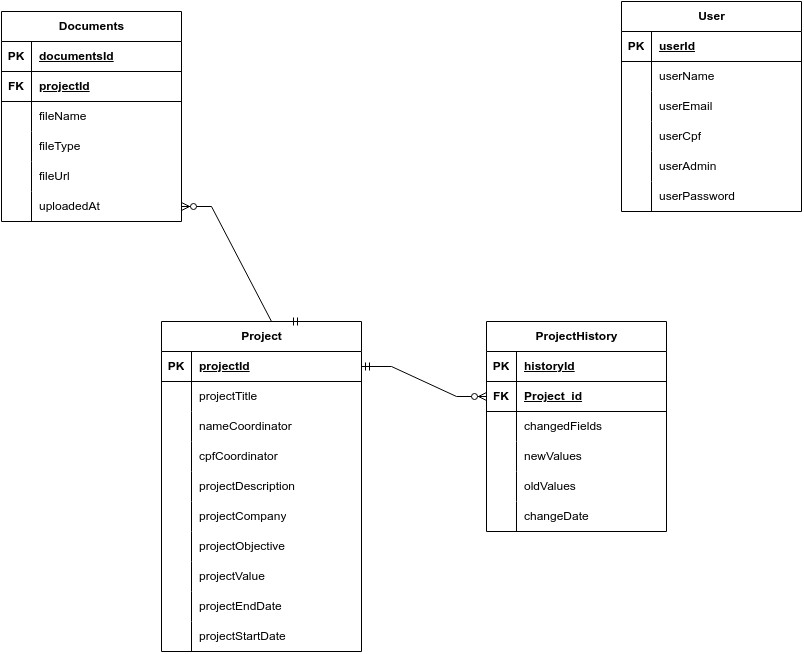
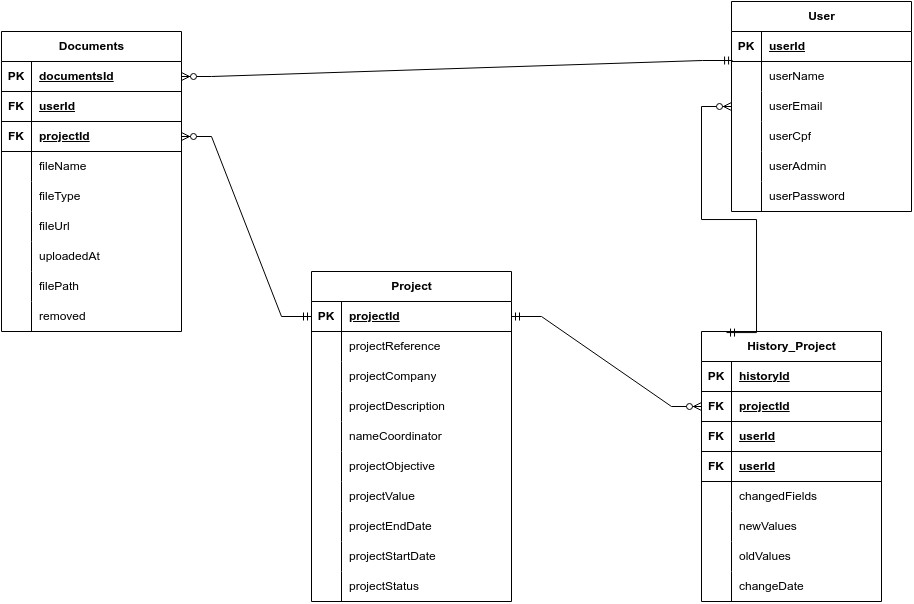
docs: atualizado backlog e dor da sprint 2

diff --git a/documentacao/sprints/sprint02/sprint02.md b/documentacao/sprints/sprint02/sprint02.md
@@ -1,60 +1,81 @@
 <h1 style="text-align: center;">📌DoR (Definition of Ready): Sprint 02</h1>
 
- <table>
-        <thead>
-            <tr>
-                <th>User Story</th>
-                <th>Critério de Aceitação</th>
-                <th>Tarefa Front</th>
-                <th>Tarefa Back</th>
-                <th>Tarefa BD</th>
-            </tr>
-        </thead>
-        <tbody>
-            <tr>
-                <td>Como usuário, eu quero pesquisar projetos por coordenador, para encontrar informações específicas.</td>
-                <td>O usuário deve ter a capacidade de buscar projetos filtrando pelo nome do coordenador. O sistema deve fornecer uma interface de busca ou filtros onde o usuário possa selecionar um coordenador específico.</td>
-                <td>Implementar filtros para seleção de coordenador.</td>
-                <td>Criar endpoint para busca de projetos filtrados por coordenador.</td>
-                <td>Otimizar consulta para buscar projetos baseados no coordenador.</td>
-            </tr>
-            <tr>
-                <td>Como usuário, eu quero pesquisar projetos por empresa, para encontrar informações específicas.</td>
-                <td>O usuário deve ter a capacidade de buscar projetos filtrando pelo nome da empresa. O sistema deve fornecer uma interface de busca ou filtros onde o usuário possa selecionar uma empresa específica.</td>
-                <td>Implementar filtros para seleção de empresa.</td>
-                <td>Criar endpoint para busca de projetos filtrados por empresa.</td>
-                <td>Otimizar consulta para buscar projetos baseados na empresa.</td>
-            </tr>
-            <tr>
-                <td>Como usuário, eu quero pesquisar projetos por status (em andamento, encerrados e não iniciados), para acompanhar o progresso dos projetos.</td>
-                <td>O usuário deve ter a opção de pesquisar projetos com base em seu status (em andamento, encerrados ou não iniciados).</td>
-                <td>Adicionar filtros de status (dropdown).</td>
-                <td>Implementar endpoint para consulta por status (em andamento, encerrado, não iniciado).</td>
-                <td>Otimizar consulta para buscar projetos baseados no status dos projetos.</td>
-            </tr>
-            <tr>
-                <td>Como usuário, eu quero pesquisar projetos por classificação, para acompanhar o progresso dos projetos.</td>
-                <td>O usuário deve ser capaz de classificar os projetos de acordo com categorias estabelecidas, como AS, OF, PC, e/ou outros, contrato, convênio, patrocínio, termo de cooperação e termo de outorga.</td>
-                <td>Adicionar filtros de classificação dos projetos (AS, OF, PC, contrato, convênio, patrocínio, etc).</td>
-                <td>Implementar endpoint para pesquisa de projetos por classificação.</td>
-                <td>Otimizar consulta para buscar projetos baseados pela classificação dos projetos.</td>
-            </tr>
-            <tr>
-                <td>Como usuário, eu quero pesquisar projetos por data de início ou término, para encontrar informações específicas.</td>
-                <td>O usuário deve ter a opção de buscar projetos por data de início ou término. O sistema deve disponibilizar um calendário ou campo para inserção de datas, permitindo que o usuário defina um intervalo específico para sua pesquisa.</td>
-                <td>Criar campo de seleção de intervalo de datas (calendário).</td>
-                <td>Desenvolver endpoint que filtre projetos com base na data de início ou término.</td>
-                <td>Otimizar consulta para buscar projetos baseados pela data de início ou término dos projetos.</td>
-            </tr>
-            <tr>
-                <td>Como usuário, eu quero utilizar uma barra de pesquisa para buscar conteúdos no site com base em palavras-chave, para encontrar informações de maneira rápida e eficiente.</td>
-                <td>O sistema deve permitir que o usuário insira uma palavra-chave na barra de pesquisa e, ao clicar em buscar, o conteúdo relevante seja exibido. O sistema deve retornar todos os resultados que contenham a palavra-chave, seja no título, descrição ou corpo do conteúdo.</td>
-                <td>Implementar o campo de input para inserção de palavras-chave e um botão de busca.</td>
-                <td>Implementar a lógica de busca que verifica a presença da palavra-chave nos campos de título, descrição ou corpo do conteúdo.</td>
-                <td>Desenvolver a consulta que faça a busca por palavra-chave em múltiplos campos (título, descrição e corpo).</td>
-            </tr>
-        </tbody>
-    </table>
+ <h1 style="text-align: center;">📌DoR (Definition of Ready): Sprint 02</h1>
+
+<table>
+    <thead>
+        <tr>
+            <th>User Story</th>
+            <th>Critério de Aceitação</th>
+            <th>Tarefa Front</th>
+            <th>Tarefa Back</th>
+            <th>Tarefa BD</th>
+        </tr>
+    </thead>
+    <tbody>
+        <tr>
+            <td>Como usuário, eu quero pesquisar projetos por coordenador, para encontrar informações específicas.</td>
+            <td>O usuário deve ter a capacidade de buscar projetos filtrando pelo nome do coordenador. O sistema deve fornecer uma interface de busca ou filtros onde o usuário possa selecionar um coordenador específico.</td>
+            <td>Implementar filtros para seleção de coordenador.</td>
+            <td>Criar endpoint para busca de projetos filtrados por coordenador.</td>
+            <td>Otimizar consulta para buscar projetos baseados no coordenador.</td>
+        </tr>
+        <tr>
+            <td>Como usuário, eu quero pesquisar projetos por empresa, para encontrar informações específicas.</td>
+            <td>O usuário deve ter a capacidade de buscar projetos filtrando pelo nome da empresa. O sistema deve fornecer uma interface de busca ou filtros onde o usuário possa selecionar uma empresa específica.</td>
+            <td>Implementar filtros para seleção de empresa.</td>
+            <td>Criar endpoint para busca de projetos filtrados por empresa.</td>
+            <td>Otimizar consulta para buscar projetos baseados na empresa.</td>
+        </tr>
+        <tr>
+            <td>Como usuário, eu quero pesquisar projetos por status (em andamento, encerrados e não iniciados), para acompanhar o progresso dos projetos.</td>
+            <td>O usuário deve ter a opção de pesquisar projetos com base em seu status (em andamento, encerrados ou não iniciados).</td>
+            <td>Adicionar filtros de status (dropdown).</td>
+            <td>Implementar endpoint para consulta por status (em andamento, encerrado, não iniciado).</td>
+            <td>Otimizar consulta para buscar projetos baseados no status dos projetos.</td>
+        </tr>
+        <tr>
+            <td>Como usuário, eu quero pesquisar projetos por classificação, para acompanhar o progresso dos projetos.</td>
+            <td>O usuário deve ser capaz de classificar os projetos de acordo com categorias estabelecidas, como AS, OF, PC, e/ou outros, contrato, convênio, patrocínio, termo de cooperação e termo de outorga.</td>
+            <td>Adicionar filtros de classificação dos projetos (AS, OF, PC, contrato, convênio, patrocínio, etc).</td>
+            <td>Implementar endpoint para pesquisa de projetos por classificação.</td>
+            <td>Otimizar consulta para buscar projetos baseados pela classificação dos projetos.</td>
+        </tr>
+        <tr>
+            <td>Como usuário, eu quero pesquisar projetos por data de início ou término, para encontrar informações específicas.</td>
+            <td>O usuário deve ter a opção de buscar projetos por data de início ou término. O sistema deve disponibilizar um calendário ou campo para inserção de datas, permitindo que o usuário defina um intervalo específico para sua pesquisa.</td>
+            <td>Criar campo de seleção de intervalo de datas (calendário).</td>
+            <td>Desenvolver endpoint que filtre projetos com base na data de início ou término.</td>
+            <td>Otimizar consulta para buscar projetos baseados pela data de início ou término dos projetos.</td>
+        </tr>
+        <tr>
+            <td>Como usuário, eu quero utilizar uma barra de pesquisa para buscar conteúdos no site com base em palavras-chave, para encontrar informações de maneira rápida e eficiente.</td>
+            <td>O sistema deve permitir que o usuário insira uma palavra-chave na barra de pesquisa e, ao clicar em buscar, o conteúdo relevante seja exibido. O sistema deve retornar todos os resultados que contenham a palavra-chave, seja no título, descrição ou corpo do conteúdo.</td>
+            <td>Implementar o campo de input para inserção de palavras-chave e um botão de busca.</td>
+            <td>Implementar a lógica de busca que verifica a presença da palavra-chave nos campos de título, descrição ou corpo do conteúdo.</td>
+            <td>Desenvolver a consulta que faça a busca por palavra-chave em múltiplos campos (título, descrição e corpo).</td>
+        </tr>
+        <tr>
+            <td>Como administrador, eu quero editar projetos existentes, para manter as informações atualizadas.</td>
+            <td>O administrador deve ter acesso a uma funcionalidade de edição para modificar detalhes de projetos já cadastrados.</td>
+            <td>Criar interface de edição de projetos com campos para alteração de dados.</td>
+            <td>Implementar a lógica para validar e salvar as edições feitas pelo administrador no banco de dados.</td>
+            <td>Atualizar os registros existentes no banco de dados com as novas informações do projeto editado.</td>
+        </tr>
+        <tr>
+            <td>Como administrador, eu quero excluir projetos obsoletos ou incorretos, para manter os dados atualizados.</td>
+            <td>O administrador deve ser capaz de excluir projetos que estejam incorretos ou obsoletos. Antes da exclusão, o sistema deve exibir uma confirmação para evitar remoções acidentais.</td>
+            <td>Criar botão de exclusão com modal de confirmação para o administrador confirmar a remoção.</td>
+            <td>Implementar a lógica para exclusão de projetos, garantindo a validação da ação através da confirmação do administrador.</td>
+            <td>Remover o projeto selecionado do banco de dados.</td>
+        </tr>
+    </tbody>
+</table>
+
+
+<h2>Modelo de Dados</h2>
+<img src="https://github.com/Sync-FATEC/API-2024.2-3SEM/blob/main/documentacao/sprints/sprint02/banco-de-dados.jpg">
+
 
 <h2>Modelo de Dados</h2>
 <img src="https://github.com/Sync-FATEC/API-2024.2-3SEM/blob/main/documentacao/sprints/sprint02/banco-de-dados.jpg">

diff --git a/README.md b/README.md
@@ -47,24 +47,164 @@ Painel Intuitivo: Desenvolveremos um painel de controle simples e intuitivo, com
 
 <h2 id='product-backlog'> 📖 Product Backlog </h2>
 
-| Rank | Prioridade  | User Story                                              | Estimativa | Sprint    | Req. Parceiro |
-|----|-------|-----------------------------------------------------------------|------------|-----------|---------------|
-| 01 | Alta  | Como administrador, eu quero acessar um portal exclusivo da área do administrador, para gerenciar projetos e visualizar relatórios detalhados, garantindo a manutenção e a segurança dos dados do sistema.        | 8 | 1 | 4 |
-| 02 | Alta  | Como administrador, eu quero cadastrar projetos, para que eles estejam disponíveis no Portal de Transparência.      | 8 | 1 | 2 |
-| 03 | Alta  | Como administrador, eu quero importar dados da aplicação legada, para garantir que os projetos antigos estejam acessíveis no novo portal. | 13 | 1 | 4 |
-| 04 | Alta  | Como usuário, eu quero visualizar os projetos no Portal de Transparência.      | 5 | 1 | 3 |
-| 05 | Alta | Como usuário, eu quero visualizar os detalhes completos de um projeto ao selecioná-lo na pesquisa, para entender todos os aspectos do projeto.       | 5 | 1 | 3 |
-| 06 | Media | Como usuário, eu quero pesquisar projetos por coordenador, para encontrar informações específicas.       | 5  | 2 | 3 |
-| 07 | Media | Como usuário, eu quero pesquisar projetos por empresa, para encontrar informações específicas.       | 5 | 2 | 3 |
-| 08 | Media | Como usuário, eu quero pesquisar projetos por status (em andamento, encerrados e não iniciados), para acompanhar o progresso dos projetos.       | 5 | 2 | 3 |
-| 09 | Media | Como usuário, eu quero pesquisar projetos por classificação, para acompanhar o progresso dos projetos.       | 5 | 2 | 3 |
-| 10 | Media | Como usuário, eu quero pesquisar projetos por data de início ou término, para encontrar informações específicas.       | 5 | 2 | 3 |
-| 11 | Media | Como usuário, eu quero utilizar uma barra de pesquisa para buscar conteúdos no site com base em palavras-chave, para encontrar informações de maneira rápida e eficiente.  | 5 | 2 | 3 |
-| 12 | Media | Como administrador, eu quero editar projetos existentes, para manter as informações atualizadas.       | 3 | 3 | 2 |
-| 13 | Media | Como administrador, eu quero excluir projetos obsoletos ou incorretos, para manter os dados atualizados.       | 3 | 3 | 2 |
-| 14 | Media | Como administrador, eu quero visualizar dashboards dos projetos, para obter uma visão geral e rápida do estado dos projetos.       | 8 | 3 | 5 |
-| 15 | Baixa | Como administrador, eu quero exportar os dados do dashboards dos projetos, para obter uma visão geral e rápida do estado dos projetos.       | 8 | 4 | 5 |
-| 16 | Baixa | Como administrador, eu quero exportar dados de um projeto selecionado,  para obter uma visão geral e rápida do estado do projeto.       | 8 | 4 | 5 |
+<table>
+    <thead>
+        <tr align="center">
+            <th>Rank</th>
+            <th>Prioridade</th>
+            <th>User Story</th>
+            <th>Estimativa</th>
+            <th>Sprint</th>
+            <th>Req. Parceiro</th>
+        </tr>
+    </thead>
+    <tbody>
+        <tr align="center">
+            <td>1</td>
+            <td>ALTA</td>
+            <td>Como administrador, eu quero acessar um portal exclusivo da área do administrador, para gerenciar projetos e visualizar relatórios detalhados, garantindo a manutenção e a segurança dos dados do sistema.</td>
+            <td>8</td>
+            <td>1</td>
+            <td>4</td>
+        </tr>
+        <tr align="center">
+            <td>2</td>
+            <td>ALTA</td>
+            <td>Como administrador, eu quero cadastrar projetos, para que eles estejam disponíveis no Portal de Transparência.</td>
+            <td>8</td>
+            <td>1</td>
+            <td>2</td>
+        </tr>
+        <tr align="center">
+            <td>3</td>
+            <td>ALTA</td>
+            <td>Como administrador, eu quero importar dados da aplicação legada, para garantir que os projetos antigos estejam acessíveis no novo portal.</td>
+            <td>13</td>
+            <td>1</td>
+            <td>4</td>
+        </tr>
+        <tr align="center">
+            <td>4</td>
+            <td>ALTA</td>
+            <td>Como usuário, eu quero visualizar os projetos no Portal de Transparência.</td>
+            <td>5</td>
+            <td>1</td>
+            <td>3</td>
+        </tr>
+        <tr align="center">
+            <td>5</td>
+            <td>ALTA</td>
+            <td>Como usuário, eu quero visualizar os detalhes completos de um projeto ao selecioná-lo na pesquisa, para entender todos os aspectos do projeto.</td>
+            <td>5</td>
+            <td>1</td>
+            <td>3</td>
+        </tr>
+        <tr align="center">
+            <td>6</td>
+            <td>MÉDIA</td>
+            <td>Como usuário, eu quero pesquisar projetos por coordenador, para encontrar informações específicas.</td>
+            <td>5</td>
+            <td>2</td>
+            <td>3</td>
+        </tr>
+        <tr align="center">
+            <td>7</td>
+            <td>MÉDIA</td>
+            <td>Como usuário, eu quero pesquisar projetos por empresa, para encontrar informações específicas.</td>
+            <td>5</td>
+            <td>2</td>
+            <td>3</td>
+        </tr>
+        <tr align="center">
+            <td>8</td>
+            <td>MÉDIA</td>
+            <td>Como usuário, eu quero pesquisar projetos por status (em andamento, encerrados e não iniciados), para acompanhar o progresso dos projetos.</td>
+            <td>5</td>
+            <td>2</td>
+            <td>3</td>
+        </tr>
+        <tr align="center">
+            <td>9</td>
+            <td>MÉDIA</td>
+            <td>Como usuário, eu quero pesquisar projetos por classificação, para acompanhar o progresso dos projetos.</td>
+            <td>5</td>
+            <td>2</td>
+            <td>3</td>
+        </tr>
+        <tr align="center">
+            <td>10</td>
+            <td>MÉDIA</td>
+            <td>Como usuário, eu quero pesquisar projetos por data de início ou término, para encontrar informações específicas.</td>
+            <td>5</td>
+            <td>2</td>
+            <td>3</td>
+        </tr>
+        <tr align="center">
+            <td>11</td>
+            <td>MÉDIA</td>
+            <td>Como usuário, eu quero utilizar uma barra de pesquisa para buscar conteúdos no site com base em palavras-chave, para encontrar informações de maneira rápida e eficiente.</td>
+            <td>5</td>
+            <td>2</td>
+            <td>3</td>
+        </tr>
+        <tr align="center">
+            <td>12</td>
+            <td>MÉDIA</td>
+            <td>Como administrador, eu quero editar projetos existentes, para manter as informações atualizadas.</td>
+            <td>3</td>
+            <td>2</td>
+            <td>2</td>
+        </tr>
+        <tr align="center">
+            <td>13</td>
+            <td>MÉDIA</td>
+            <td>Como administrador, eu quero excluir projetos obsoletos ou incorretos, para manter os dados atualizados.</td>
+            <td>3</td>
+            <td>2</td>
+            <td>2</td>
+        </tr>
+        <tr align="center">
+            <td>14</td>
+            <td>MÉDIA</td>
+            <td>Como administrador, eu quero garantir que conteúdo sensível de projetos não seja exibido para usuários comuns, para proteger informações confidenciais e garantir que apenas usuários autorizados tenham acesso.</td>
+            <td>5</td>
+            <td>3</td>
+            <td>2</td>
+        </tr>
+        <tr align="center">
+            <td>15</td>
+            <td>MÉDIA</td>
+            <td>Como administrador, eu quero visualizar dashboards dos projetos, para obter uma visão geral e rápida do estado dos projetos.</td>
+            <td>8</td>
+            <td>3</td>
+            <td>5</td>
+        </tr>
+        <tr align="center">
+            <td>16</td>
+            <td>BAIXA</td>
+            <td>Como administrador, eu quero visualizar um histórico de alterações de cada projeto, para rastrear todas as edições realizadas e garantir a integridade dos dados.</td>
+            <td>8</td>
+            <td>4</td>
+            <td>2</td>
+        </tr>
+        <tr align="center">
+            <td>17</td>
+            <td>BAIXA</td>
+            <td>Como administrador, eu quero exportar os dados dos dashboards dos projetos, para obter uma visão geral e rápida do estado dos projetos.</td>
+            <td>8</td>
+            <td>4</td>
+            <td>5</td>
+        </tr>
+        <tr align="center">
+            <td>18</td>
+            <td>BAIXA</td>
+            <td>Como administrador, eu quero exportar dados de um projeto selecionado, para obter uma visão geral e rápida do estado do projeto.</td>
+            <td>8</td>
+            <td>4</td>
+            <td>5</td>
+        </tr>
+    </tbody>
+</table>
 
 <br>
 
